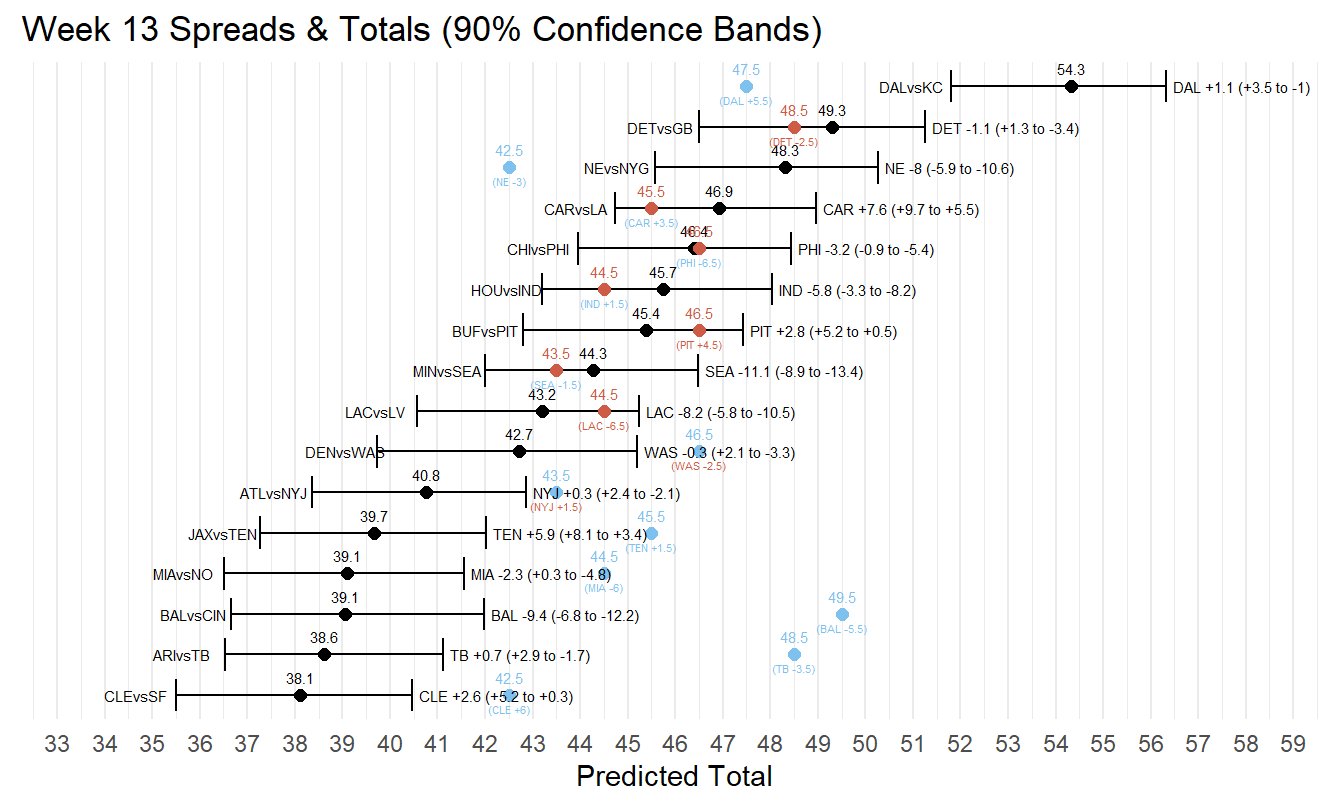
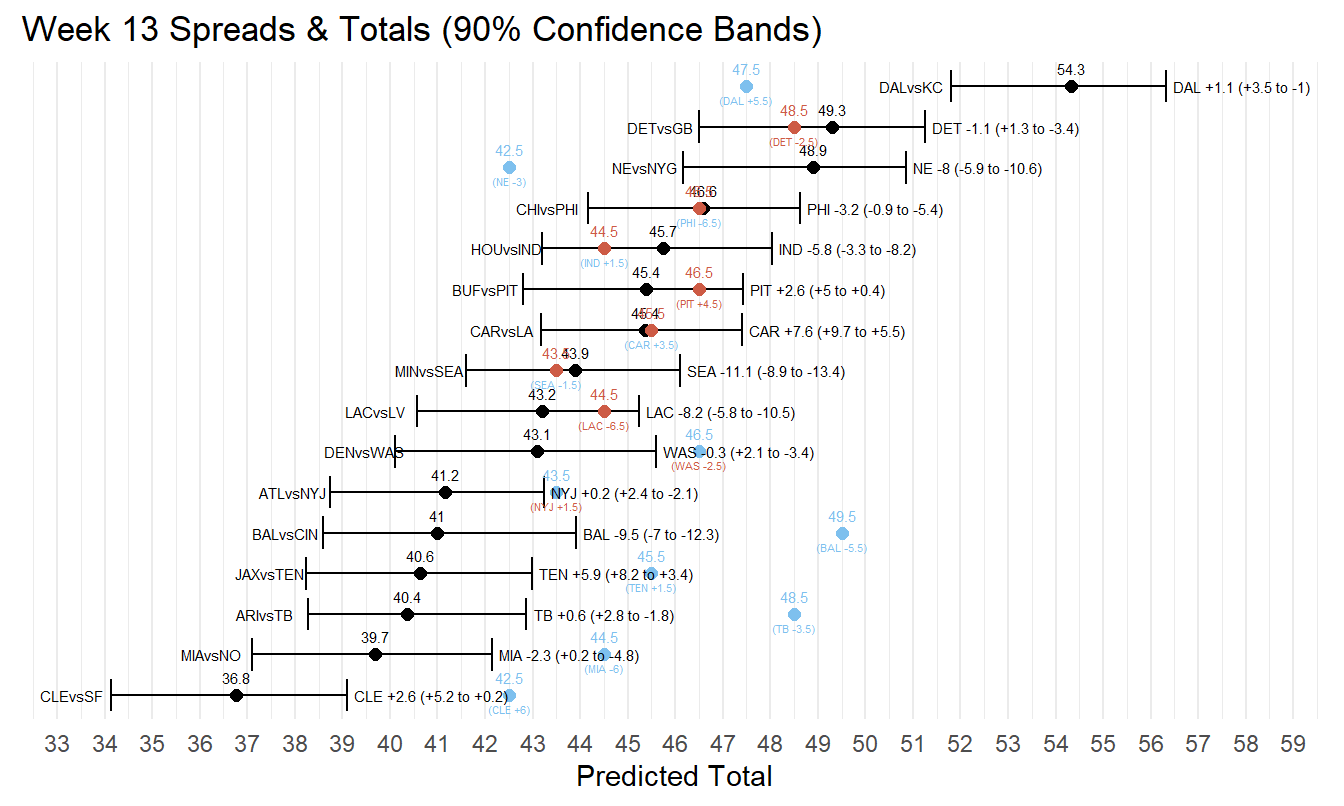
update daily

diff --git a/docs/mods.html b/docs/mods.html
@@ -127,7 +127,7 @@ Note
 </div>
 </div>
 <div class="callout-body-container callout-body">
-<p>Updated as of Tuesday, November 25, 2025 at 11:23:25 AM</p>
+<p>Updated as of Wednesday, November 26, 2025 at 10:43:30 AM</p>
 </div>
 </div>
 <section id="my-model-vs-vegas-based-on-opening-bet-lines" class="level2">
@@ -610,36 +610,18 @@ Note
 </thead>
 <tbody class="gt_table_body">
 <tr class="odd">
-<td class="gt_row gt_left" headers="game">JAX @ TEN</td>
-<td class="gt_row gt_left" headers="total_line_label">45.5</td>
-<td class="gt_row gt_left" headers="total_mod_label">39.7</td>
-<td class="gt_row gt_left" headers="bet_total">Under 42.5</td>
-<td class="gt_row gt_left" headers="spread_line_label">TEN +1.5</td>
-<td class="gt_row gt_left" headers="spread_mod_label">TEN +5.9</td>
-<td class="gt_row gt_left" headers="bet_spread">NA</td>
-</tr>
-<tr class="even">
 <td class="gt_row gt_left" headers="game">NO @ MIA</td>
 <td class="gt_row gt_left" headers="total_line_label">44.5</td>
-<td class="gt_row gt_left" headers="total_mod_label">39.1</td>
+<td class="gt_row gt_left" headers="total_mod_label">39.7</td>
 <td class="gt_row gt_left" headers="bet_total">NA</td>
 <td class="gt_row gt_left" headers="spread_line_label">MIA -6</td>
 <td class="gt_row gt_left" headers="spread_mod_label">MIA -2.3</td>
 <td class="gt_row gt_left" headers="bet_spread">NO +6</td>
 </tr>
-<tr class="odd">
-<td class="gt_row gt_left" headers="game">SF @ CLE</td>
-<td class="gt_row gt_left" headers="total_line_label">42.5</td>
-<td class="gt_row gt_left" headers="total_mod_label">38.1</td>
-<td class="gt_row gt_left" headers="bet_total">NA</td>
-<td class="gt_row gt_left" headers="spread_line_label">CLE +6</td>
-<td class="gt_row gt_left" headers="spread_mod_label">CLE +2.6</td>
-<td class="gt_row gt_left" headers="bet_spread">CLE +5.5</td>
-</tr>
 <tr class="even">
 <td class="gt_row gt_left" headers="game">CHI @ PHI</td>
 <td class="gt_row gt_left" headers="total_line_label">46.5</td>
-<td class="gt_row gt_left" headers="total_mod_label">46.4</td>
+<td class="gt_row gt_left" headers="total_mod_label">46.6</td>
 <td class="gt_row gt_left" headers="bet_total">NA</td>
 <td class="gt_row gt_left" headers="spread_line_label">PHI -6.5</td>
 <td class="gt_row gt_left" headers="spread_mod_label">PHI -3.2</td>
@@ -1120,9 +1102,9 @@ Note
 </tr>
 <tr class="even">
 <td class="gt_row gt_left" headers="game">LA @ CAR</td>
-<td class="gt_row gt_left" headers="team_ml_hit_label">CAR +500</td>
+<td class="gt_row gt_left" headers="team_ml_hit_label">CAR +490</td>
 <td class="gt_row gt_left" headers="win_prob_model_label">26.8%</td>
-<td class="gt_row gt_left" headers="win_prob_vegas_label">16%</td>
+<td class="gt_row gt_left" headers="win_prob_vegas_label">16.3%</td>
 </tr>
 <tr class="odd">
 <td class="gt_row gt_left" headers="game">NO @ MIA</td>
@@ -1132,9 +1114,9 @@ Note
 </tr>
 <tr class="even">
 <td class="gt_row gt_left" headers="game">DEN @ WAS</td>
-<td class="gt_row gt_left" headers="team_ml_hit_label">WAS +250</td>
+<td class="gt_row gt_left" headers="team_ml_hit_label">WAS +260</td>
 <td class="gt_row gt_left" headers="win_prob_model_label">49.8%</td>
-<td class="gt_row gt_left" headers="win_prob_vegas_label">27.4%</td>
+<td class="gt_row gt_left" headers="win_prob_vegas_label">26.6%</td>
 </tr>
 </tbody>
 </table>
